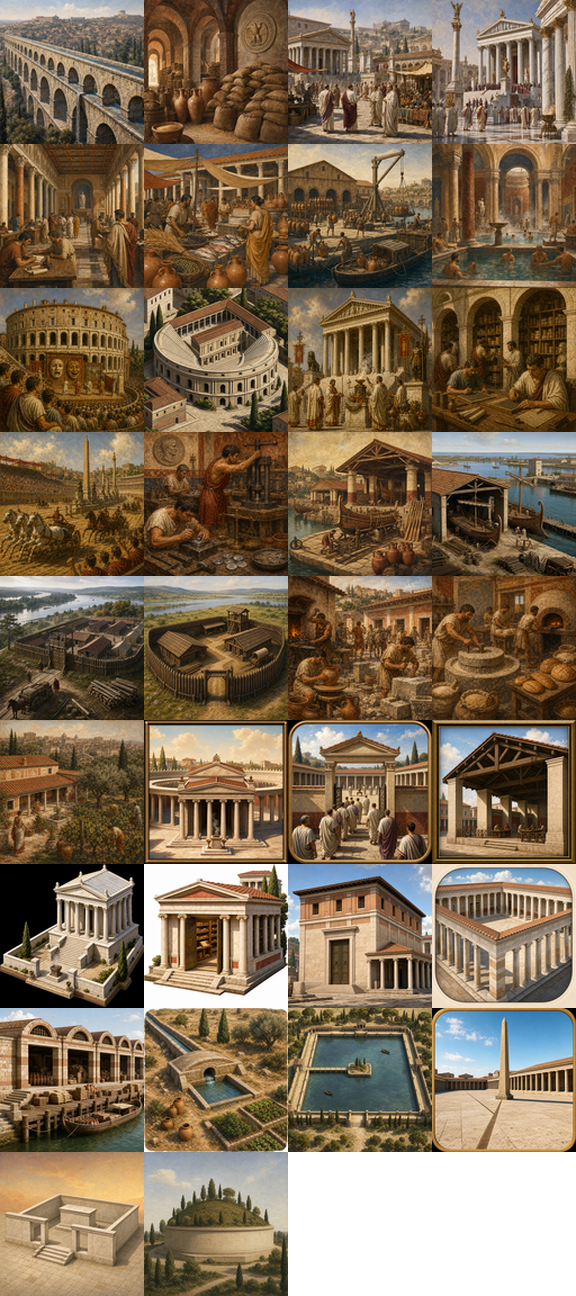
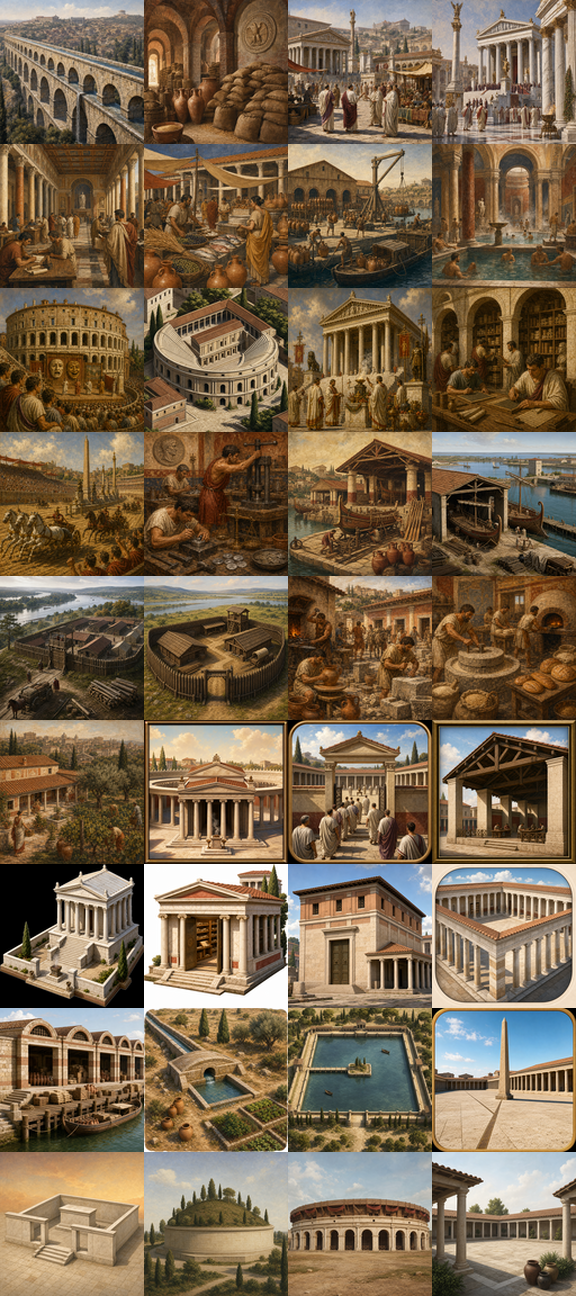
feat(m5): add Augustan public building pair

Changed region(s): [[0.5, 0.8642, 1.0, 1.0]]

diff --git a/docs/m5/M5_ROMAN_CIVIC_BUILDINGS.md b/docs/m5/M5_ROMAN_CIVIC_BUILDINGS.md
@@ -89,6 +89,24 @@ it does not determine the tomb's internal plan, occupants, sculpture, complete
 landscaping, or later ruin state. Both direct icons use restrained exterior
 silhouettes rather than invented scenes.
 
+### Amphitheatrum Statilii Tauri and Porticus Liviae additions
+
+`DAR-AMPHITHEATRUM-TAURUS` records T. Statilius Taurus's first stone Roman
+amphitheatre and its 29 BC dedication. Its location in the Campus Martius,
+construction details, and scale remain unresolved. The special therefore uses
+the existing low cultural-building contract at the Rome city point. Its upkeep
+is a modest gameplay demand for timber, masonry, cloth, wine, and tools; it is
+not a reconstruction of seating, a programme, performers, spectators, games,
+or the AD 64 fire.
+
+`DAR-PORTICUS-LIVIAE` records the public recreational quadriporticus dedicated
+in 7 BC on the Oppian. It preserves disagreement over attribution, its central
+feature, and a complete plan. The special is consequently a modest public-space
+proxy: it does not assert an altar, temple, fountain, shops, houses, or a full
+courtyard arrangement. Its service-material upkeep is economic gameplay demand,
+not an ancient budget or inventory. Both direct icons show generic empty
+architectural silhouettes rather than named people or reconstructed sites.
+
 ## Technical mapping
 
 The definitions use only contracts read from the installed build's
@@ -108,7 +126,10 @@ alongside the existing named-building set.
 The generator rejects a missing, wrong-size, or non-RGBA direct building icon;
 the ledger's `icon_subject` column records the subject of each illustration.
 Ara Pacis and Mausoleum source images were reviewed under the same contract;
-the refreshed sheet now contains all 34 named Roman specials.
+they are retained in the same reviewed contact sheet.
+The Amphitheatrum Statilii Tauri and Porticus Liviae sources use the same direct
+source/master/DDS review chain; the refreshed sheet contains all 36 named Roman
+specials.
 
 ## Ravenna military-port source and boundary
 
